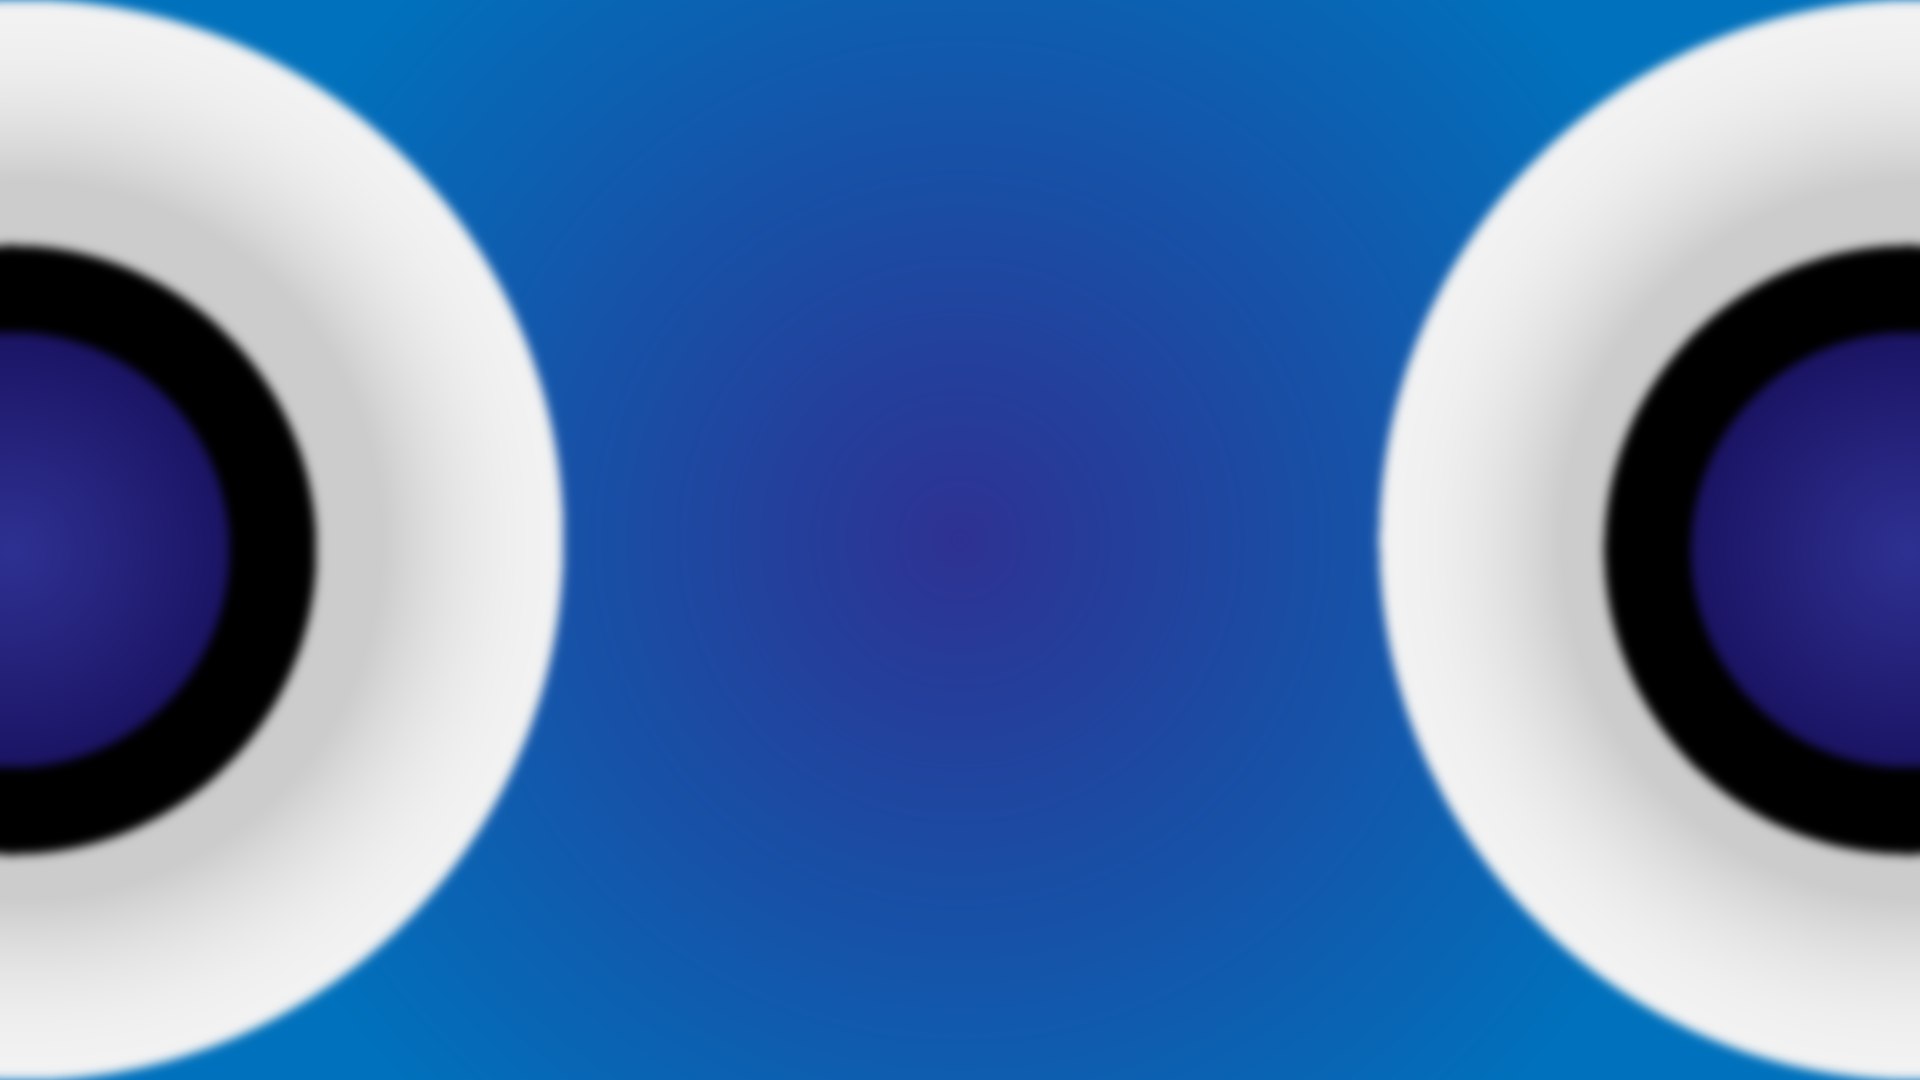
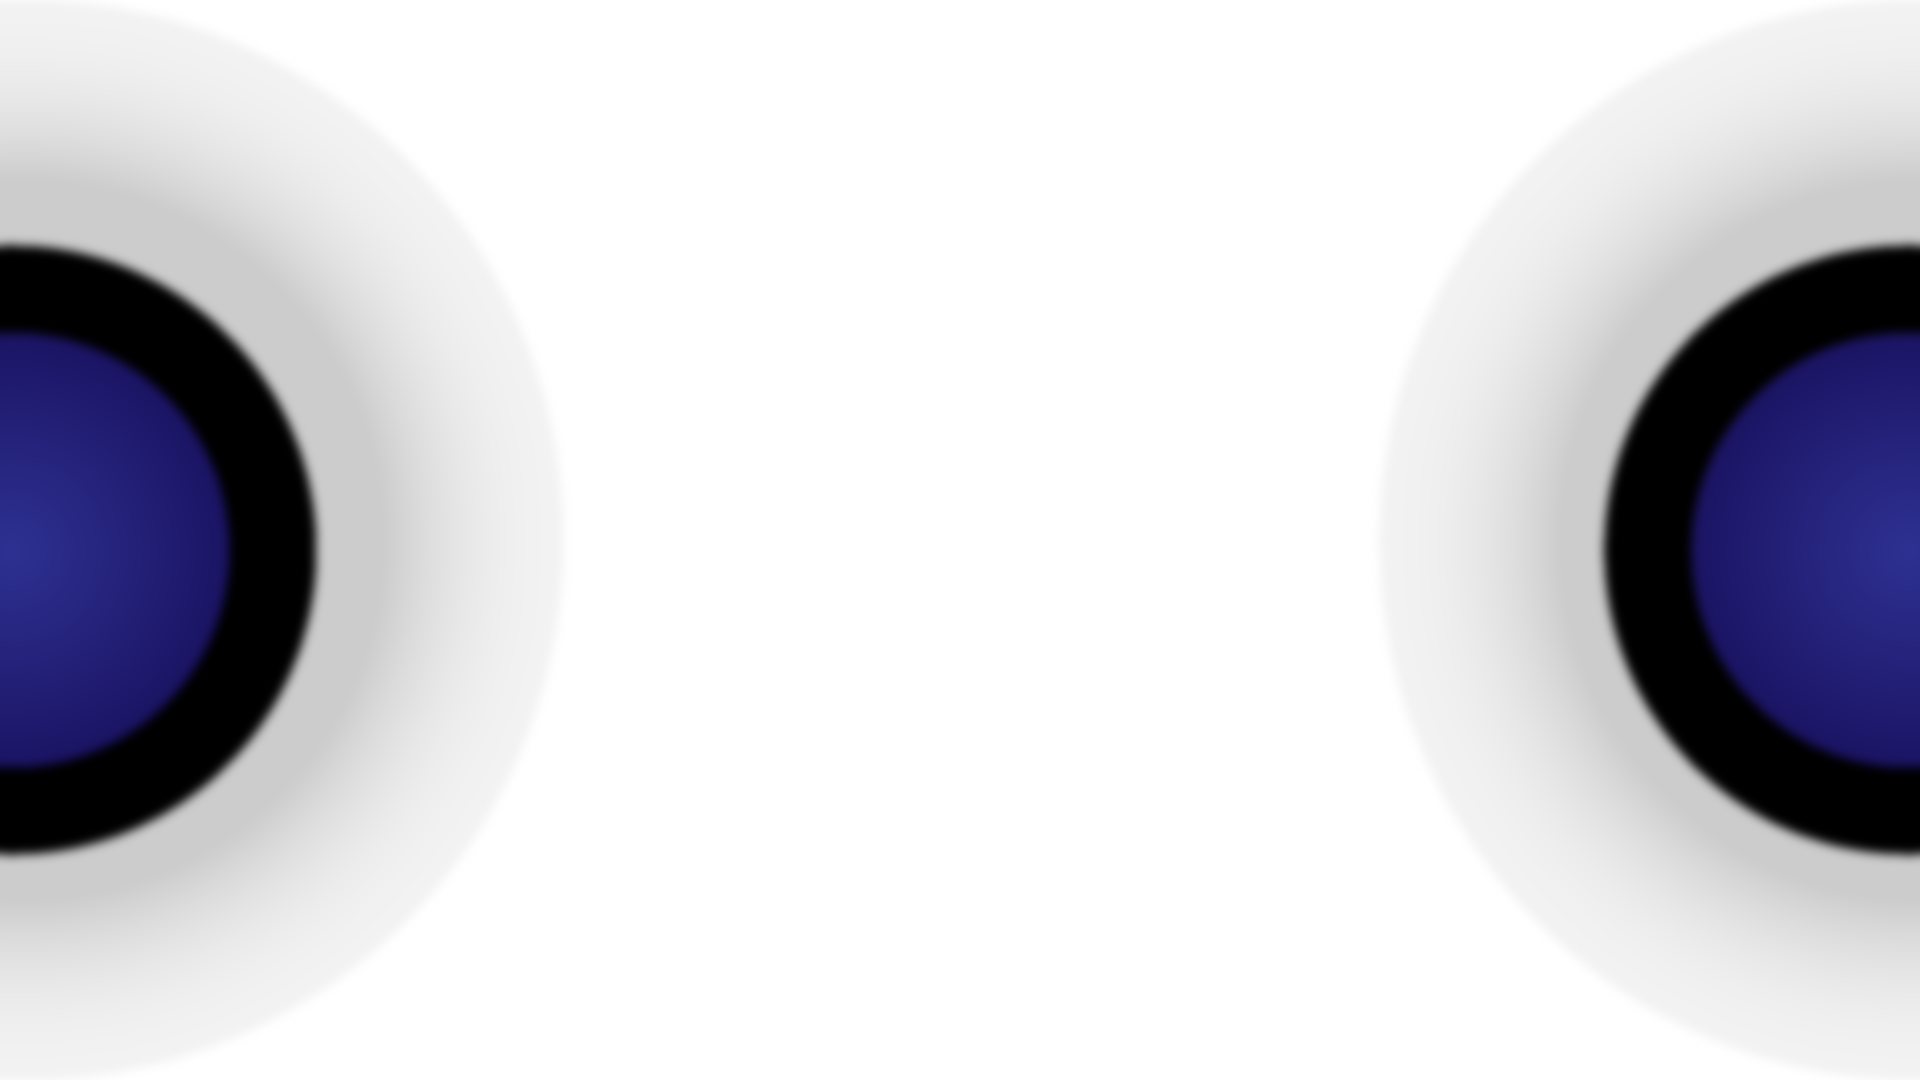
Updates

diff --git a/index.html b/index.html
@@ -26,9 +26,10 @@
             <p>For most people, vision is one of the most important senses. It paints the picture of our everyday lives; it gives us something tangible to remember our memories and experiences with and most of all we use it to go about our day to day lives. So many things have changed in time regarding our eyes. Our understanding of them, our quality of health, our surroundings, our lifestyle and so much more.</p> 
             <p>Naturally, as a result, the experiences and challenges of the eye has evolved. We are in a moment of time where digital technology is as prominent in our lives as it has ever been.</p>
             <p>It goes without saying the list of positives and possibilities this has brought is huge. However, with the capabilities of mobile phones and tablet devices grabbing our attention on a regular basis, we as a society are potentially at a crossroads in regards to how the evolving world is having an impact on our vision.</p>
-            <p>In this essay, I am going to explore how digital technology has become almost an essential for our everyday lives, where the current path is leading us in the future and what we can do now to ensure that our eyes can be just healthy now in the future; to do this I will cover:</p>
+            <p>In this essay, I am going to explore how digital technology has become almost an essential for our everyday lives, where the current path is leading us in the future and what we can do now to ensure that our eyes can be just healthy now in the future.</p>
             </div>
             <div class='right'>
+            <h2 class='content'>Key Topics</h2>
             <h3>The boom of digital devices</h3>
             <p class='sub'>I will talk about how our phones, computers and other gadgets have opened up a new world of possibilities in recent years</p>
             <h3>The draw of digital media</h3>

diff --git a/css/style.css b/css/style.css
@@ -36,7 +36,7 @@ body{
     background-color: dodgerblue;
     justify-content: flex-end; 
     background-image: url(../img/headerbg.png);
-    background-size: 100%;
+    background-size: cover;
     background-position:top;
     background-repeat: no-repeat;
 }
@@ -146,7 +146,7 @@ p.sub{
     font-family: "HelveticaNeue-Light", "Helvetica Neue Light", "Helvetica Neue", Helvetica, Arial, "Lucida Grande", sans-serif;
     font-size: 1.25em;
     margin-top: 2%;
-    margin-bottom: 5%;
+    margin-bottom: 7.5%;
     margin-left: 5%;
     margin-right: 5%;
     letter-spacing: 0.65px;
@@ -220,6 +220,17 @@ h2{
     margin-left: 35%;
     margin-right: 35%;
     text-align: center;
+    letter-spacing: 0.65px;
+    color: #f5f5f5;
+}
+
+h2.content{
+    font-family: "HelveticaNeue-Light", "Helvetica Neue Light", "Helvetica Neue", Helvetica, Arial, "Lucida Grande", sans-serif;
+    font-size: 2.25em;
+    margin-top: 5%;
+    margin-left: 5%;
+    margin-right: 5%;
+    text-align: left;
     letter-spacing: 0.65px;
     color: #f5f5f5;
 }
